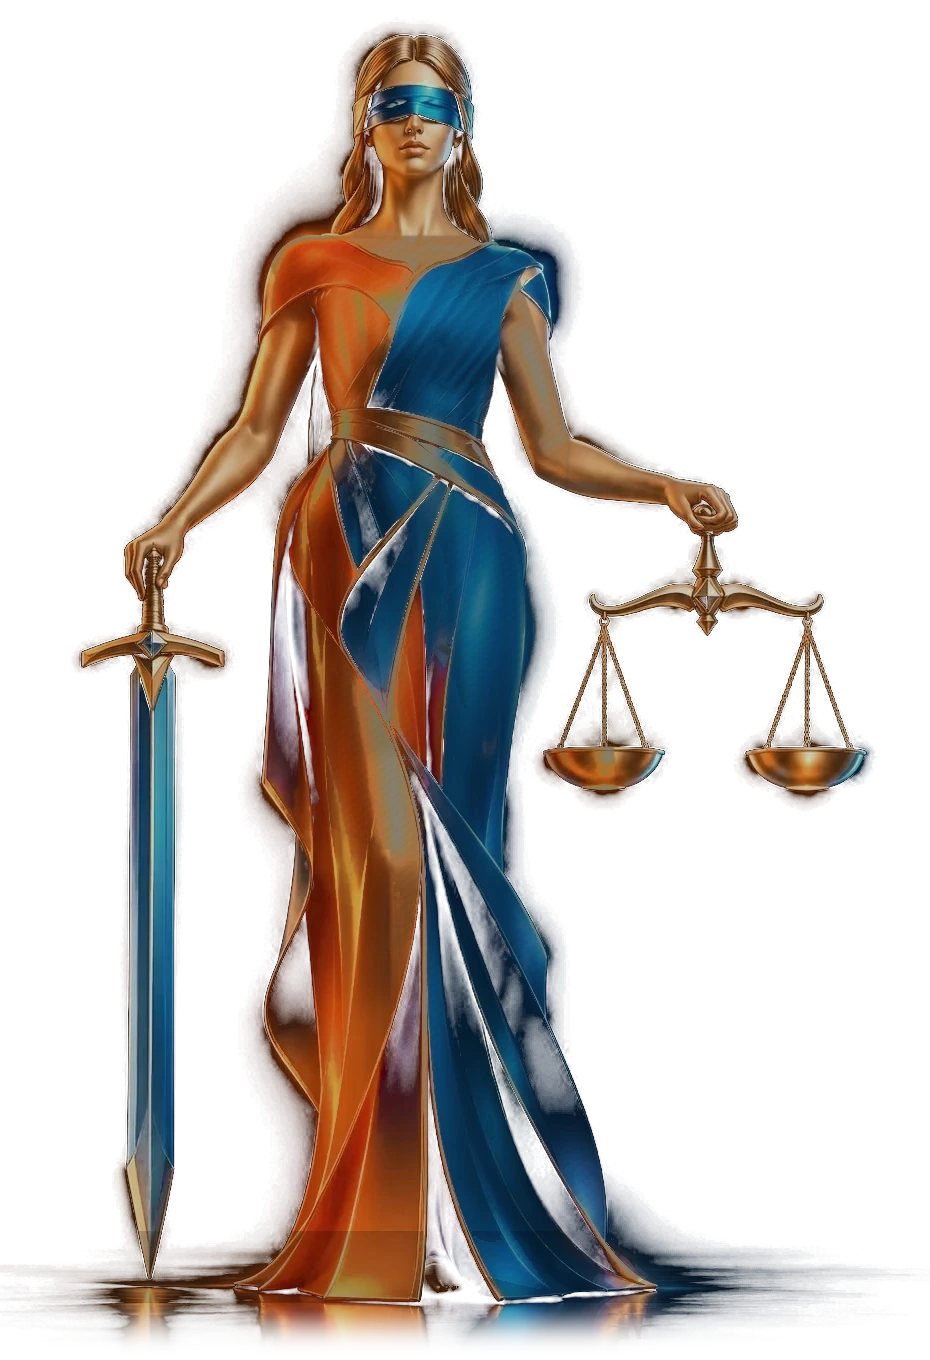
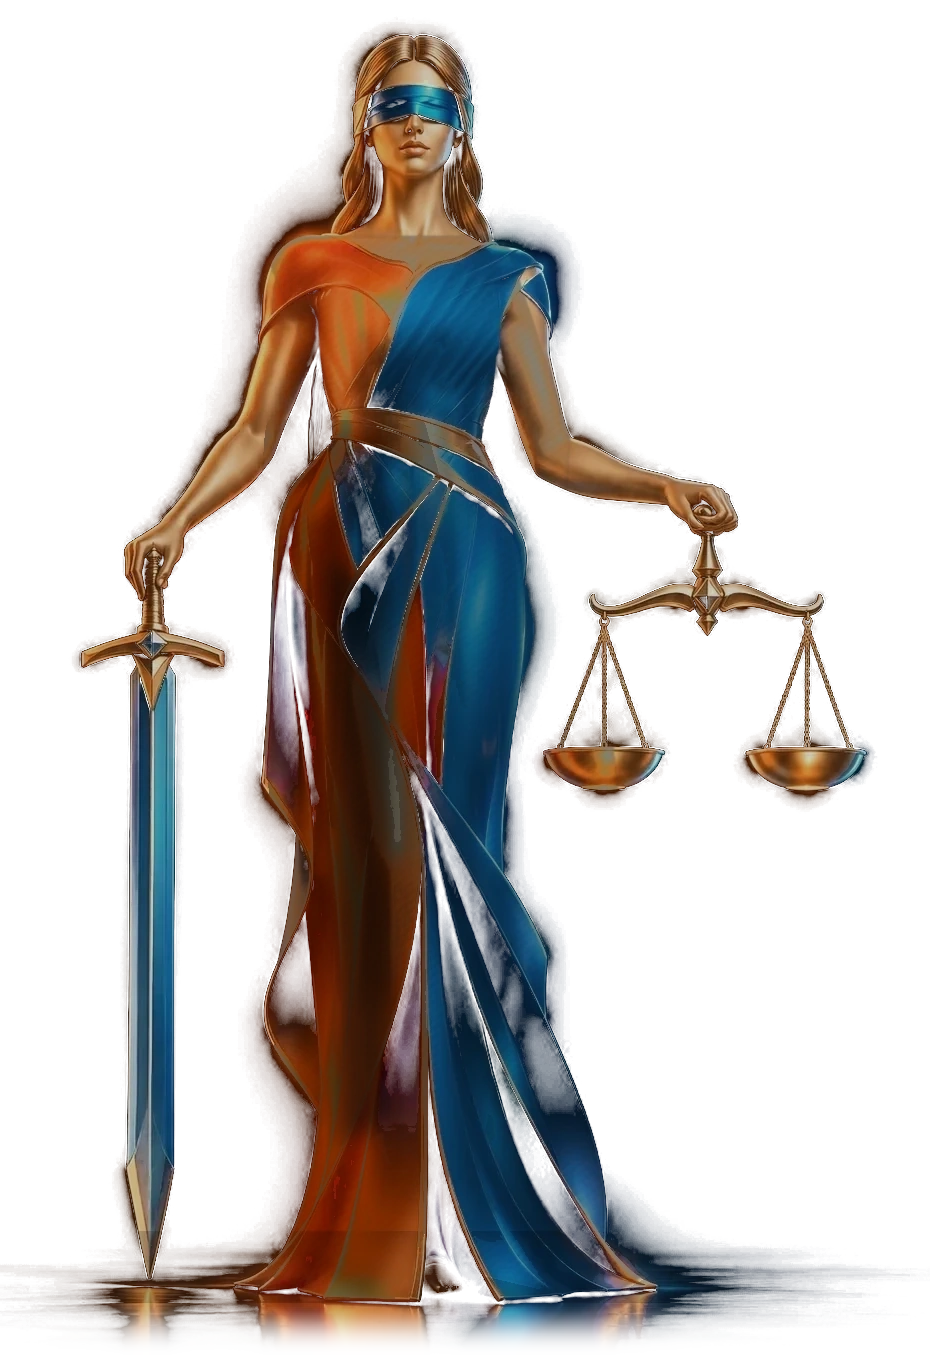
Фемида: переводит ткань ноги в терракоту

Changed region(s): [[0.2806, 0.3088, 0.4989, 0.9574], [0.2806, 0.3088, 0.3118, 0.3397]]

diff --git a/docs/product/media-sources.md b/docs/product/media-sources.md
@@ -42,4 +42,4 @@
 
 # Матовая ткань без изменения силуэта, 24 ноября 2026
 
-Кадры `assets/themis-alive.webp` и `assets/themis-alive-480.webp` получены из варианта текущего `main`. Геометрия фигуры, прозрачный контур, размеры кадров и области анимации в `themis.js` не менялись. Блики платья сжаты, цвет и контраст приглушены, внутри существующего силуэта добавлены мягкие складки ткани. Основной кадр сохранён в WebP с качеством 95, мобильный уменьшен из него и сохранён с качеством 75. Метаданные не записываются.
+Кадры `assets/themis-alive.webp` и `assets/themis-alive-480.webp` получены из варианта текущего `main`. Геометрия фигуры, прозрачный контур, размеры кадров и области анимации в `themis.js` не менялись. Блики платья сжаты, цвет и контраст приглушены, внутри существующего силуэта добавлены мягкие складки ткани. Тёплая часть платья на левой для зрителя ноге переведена в терракотовый оттенок, её центральный блик приглушён. Основной кадр сохранён в WebP с качеством 95, мобильный уменьшен из него и сохранён с качеством 75. Метаданные не записываются.
